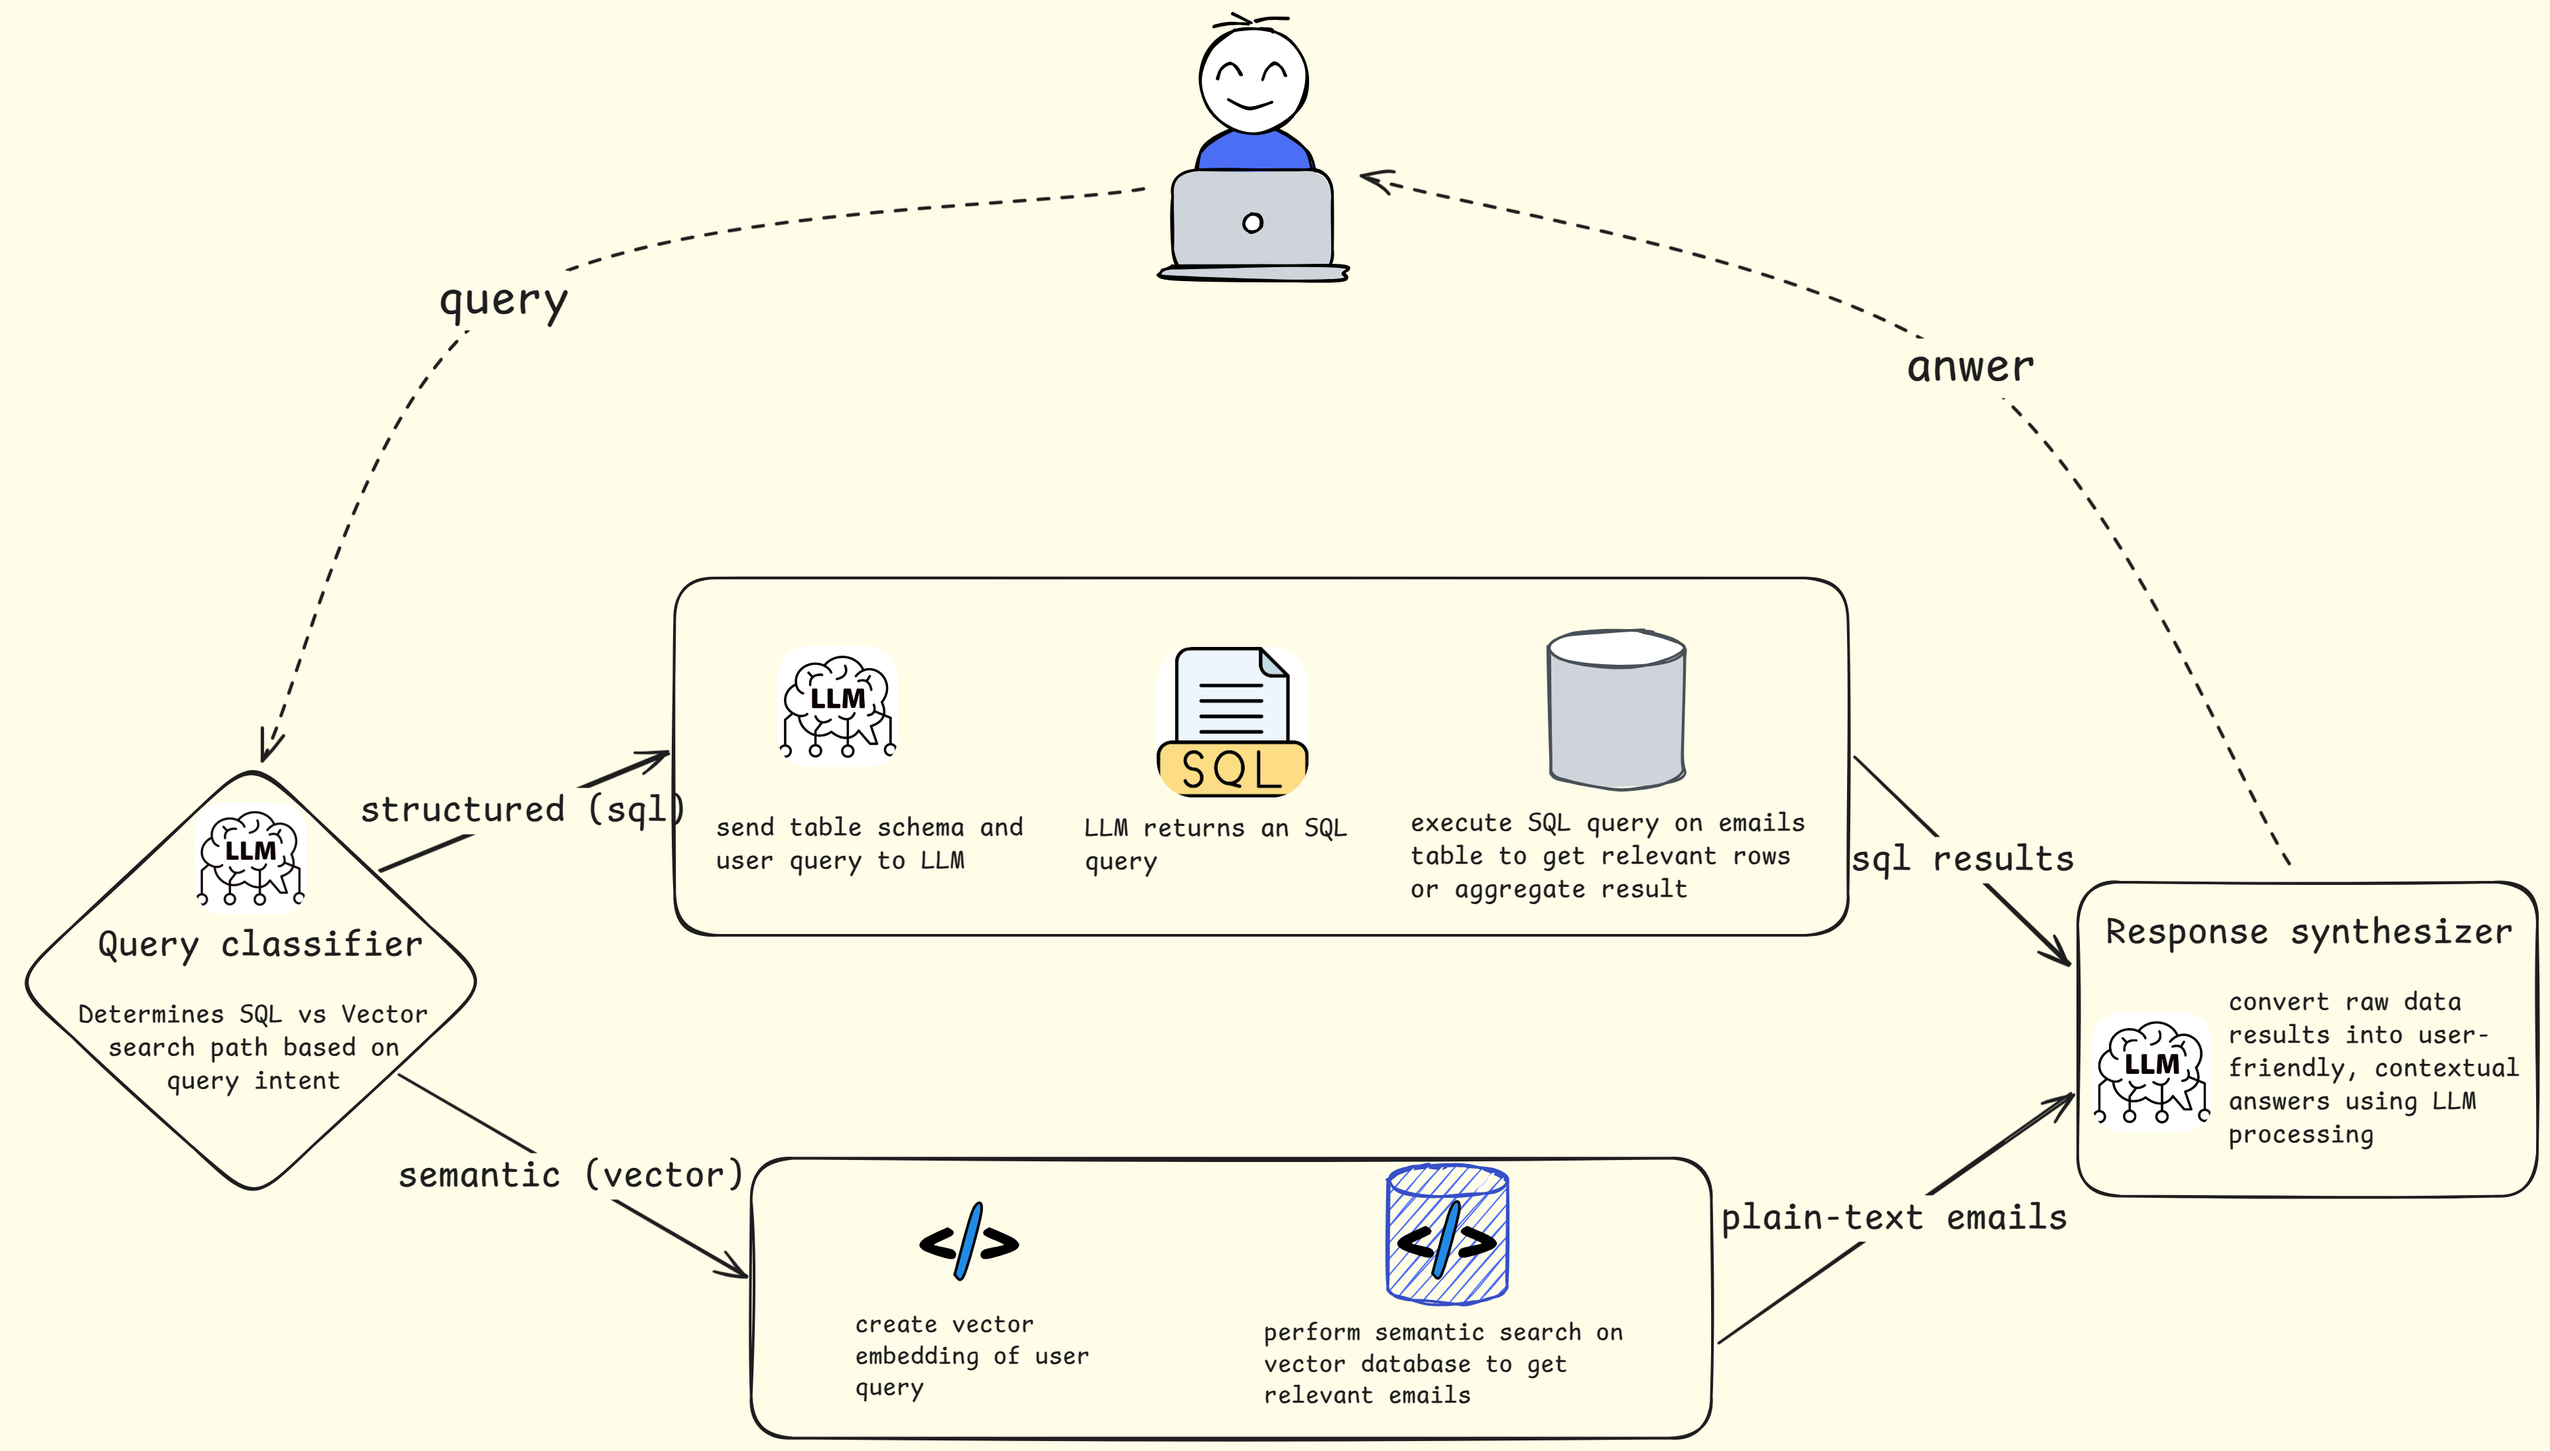
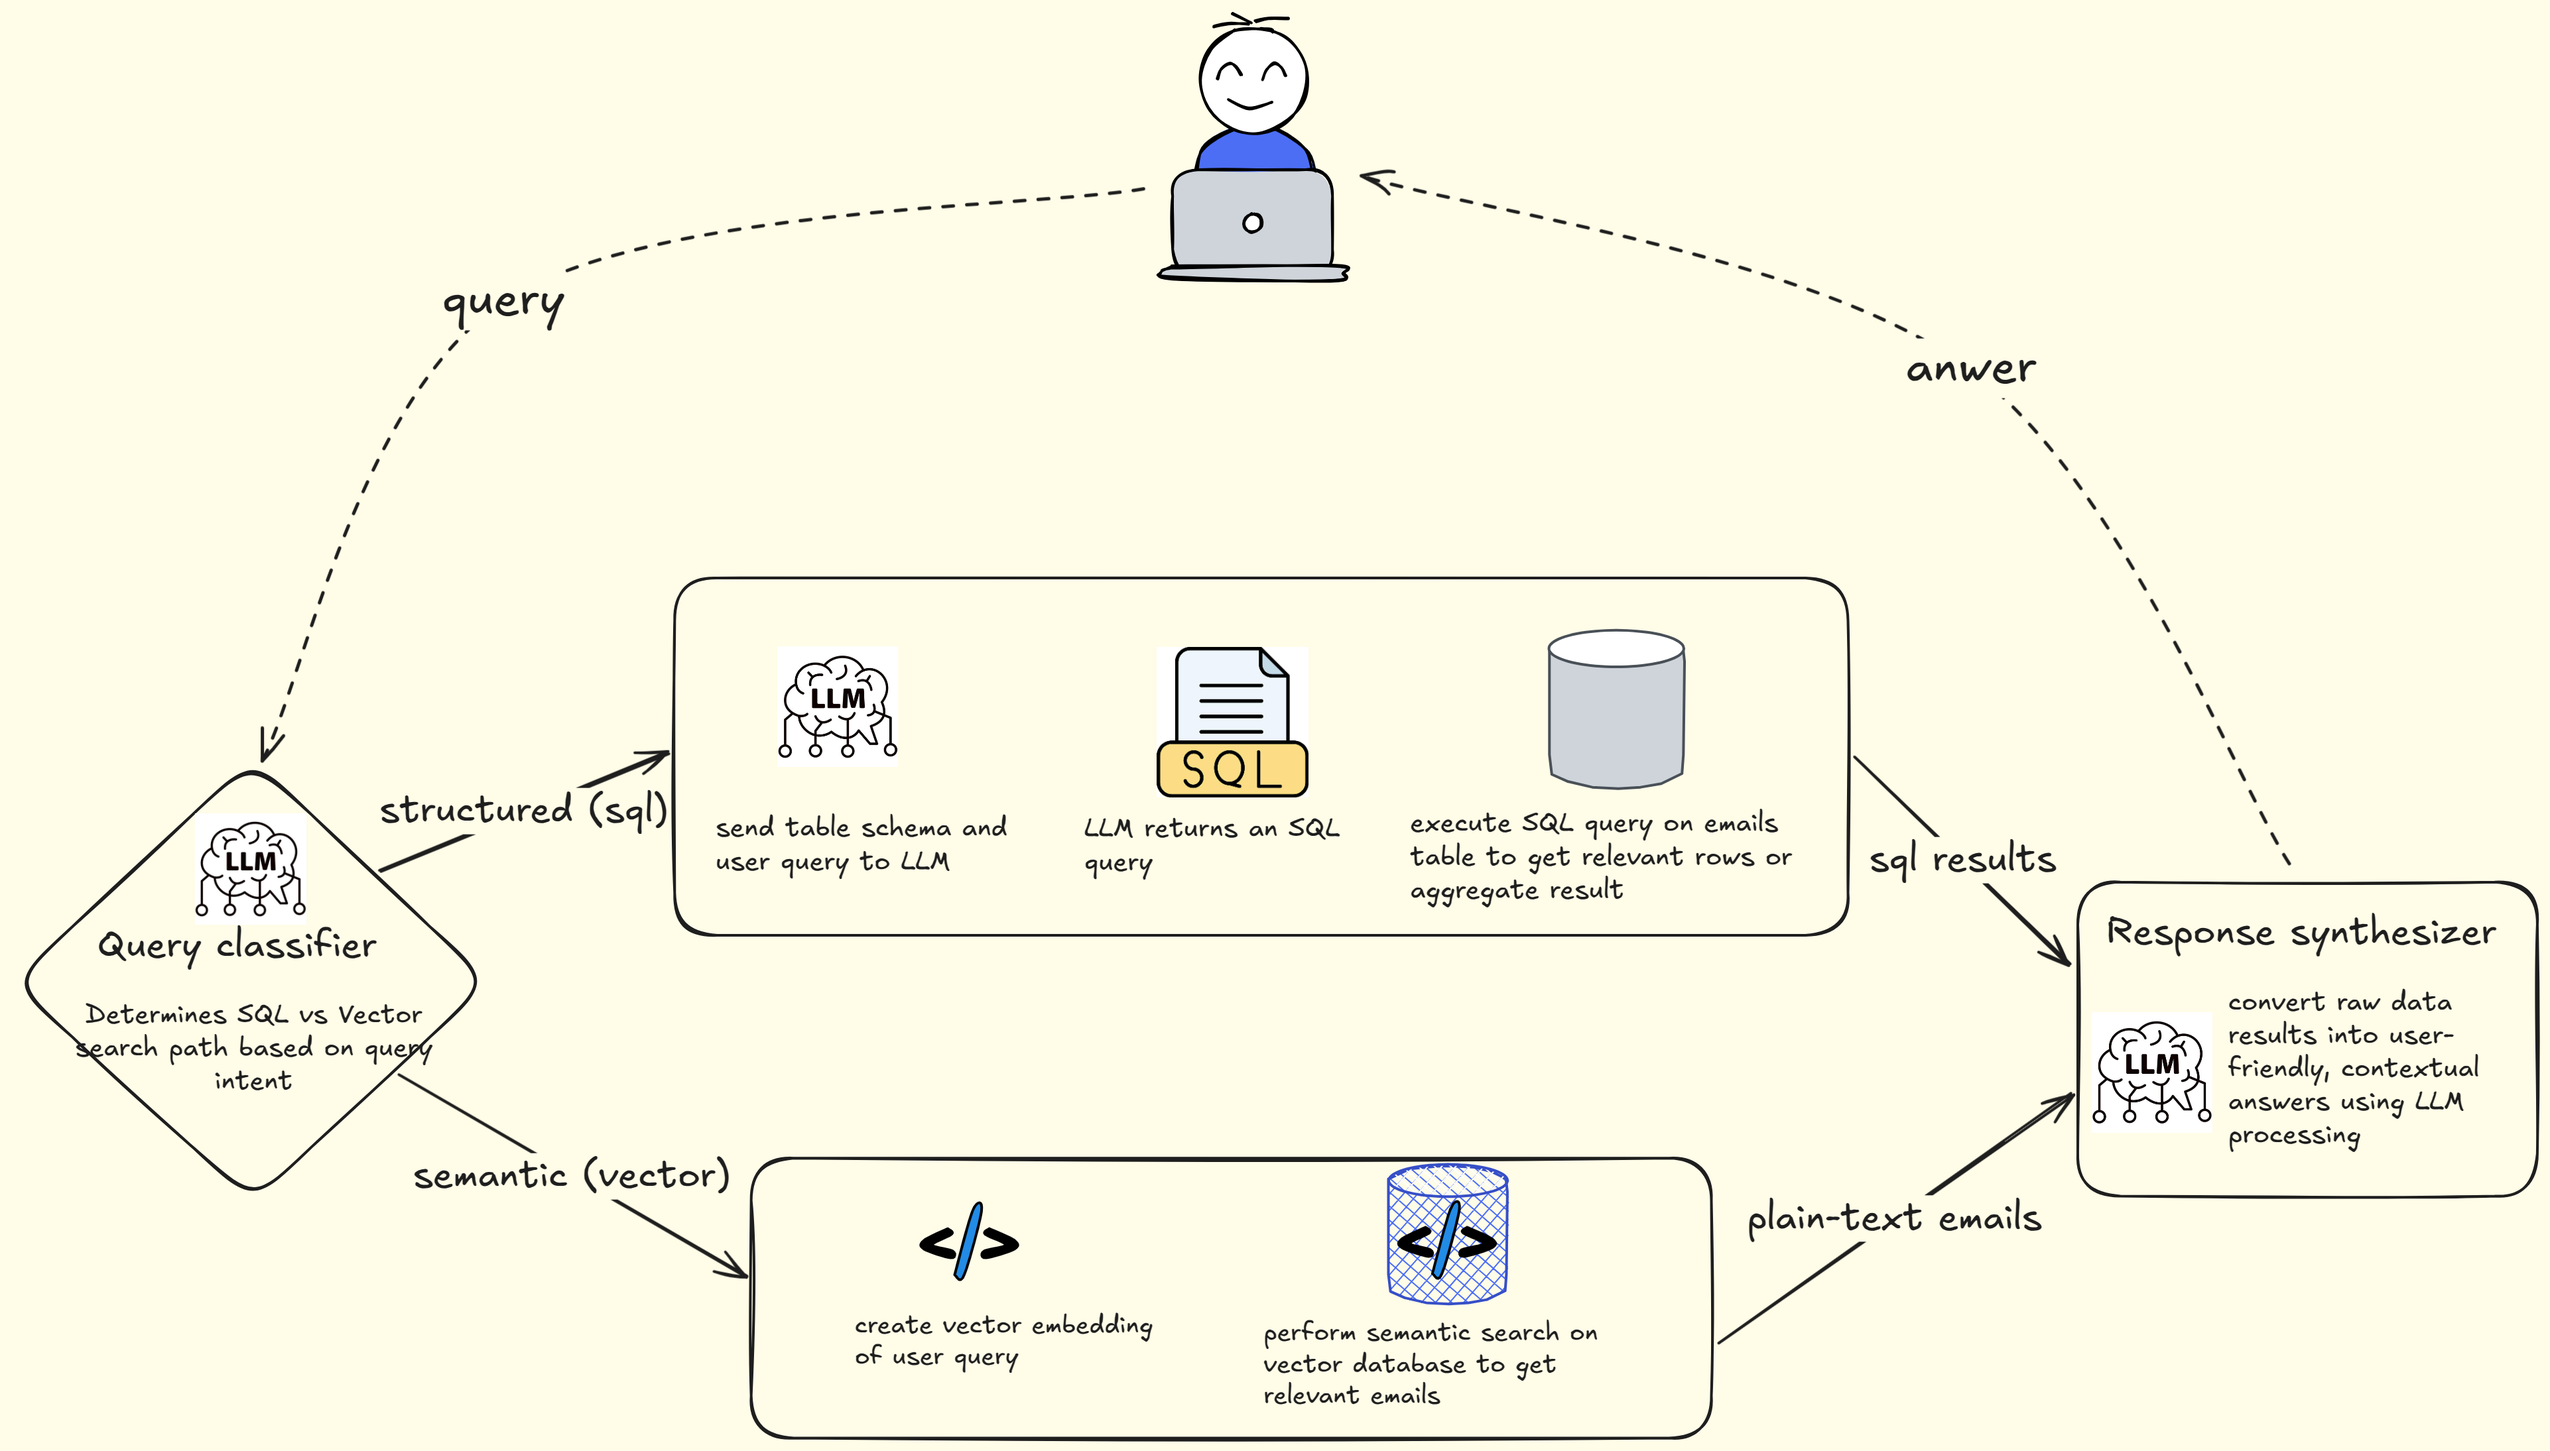
added sample q and a image

diff --git a/README.md b/README.md
@@ -12,17 +12,18 @@ Mail-Lens is designed to help users extract meaningful insights from their email
 - **Provide summaries** of email content and patterns
 - **Search across email metadata** including senders, subjects, dates, and categories
 
+![Sample Q&A Interface](assets/sample_q&a.png)
+
 The tool is particularly useful for:
-- Personal finance tracking and expense analysis
 - Travel and booking history
-- Vendor and transaction monitoring
+- Vendor and transaction search
 - Email content discovery and summarization
 
 ## ETL Phase
 
 The system follows a comprehensive ETL (Extract, Transform, Load) pipeline:
 
-![ETL Phase](etl-phase.png)
+![ETL Phase](assets/etl-phase.png)
 
 ### 1. **Extract** - Email Ingestion
 - **Input**: Mbox files (Gmail export format)
@@ -46,7 +47,7 @@ The system follows a comprehensive ETL (Extract, Transform, Load) pipeline:
 
 ## Agent Architecture
 
-The system uses a sophisticated workflow-based agent architecture built with LangGraph:
+The system uses a sophisticated workflow-based agent architecture built with LlamaIndex:
 
 ![Agent Architecture](assets/agent-architecture.png)
 
@@ -73,22 +74,23 @@ The agent first classifies user queries into two categories:
 - Provides structured summaries with relevant metadata
 
 ### **Workflow Components**
-- **EmailQueryWorkflow**: Main workflow orchestrator
-- **Query Classification**: Determines processing path
-- **Data Retrieval**: Executes SQL or vector search
+- **EmailQueryWorkflow**: Main workflow orchestrator using LlamaIndex's Workflow framework
+- **Query Classification**: Determines processing path (SQL vs Vector)
+- **Data Retrieval**: Executes SQL or vector search based on classification
 - **Response Synthesis**: Generates final user-friendly responses
 
 ## Main Technologies Used
 
 ### **Core Framework**
-- **LangGraph**: Workflow orchestration and agent management
+- **LlamaIndex**: Workflow orchestration, agent management, and vector database integration
 - **FastAPI**: High-performance web API framework
 - **Streamlit**: Interactive web interface for Q&A
 
 ### **AI/ML Stack**
 - **OpenAI GPT**: Natural language processing and SQL generation
 - **HuggingFace Transformers**: Local embedding models (sentence-transformers/all-MiniLM-L6-v2)
-- **LlamaIndex**: Vector database integration and document processing
+- **LlamaIndex**: Workflow orchestration, vector database integration, and document processing
+- **Groq**: Alternative LLM provider for email annotation
 
 ### **Data Storage**
 - **SQLite**: Structured email data storage
@@ -156,6 +158,5 @@ cp .env.example .env
 
 ### Example Queries
 - "Show me all Amazon purchases from last month"
-- "What travel expenses did I have in Q1?"
 - "Find emails about project deadlines"
 - "Summarize my email conversations with John"
